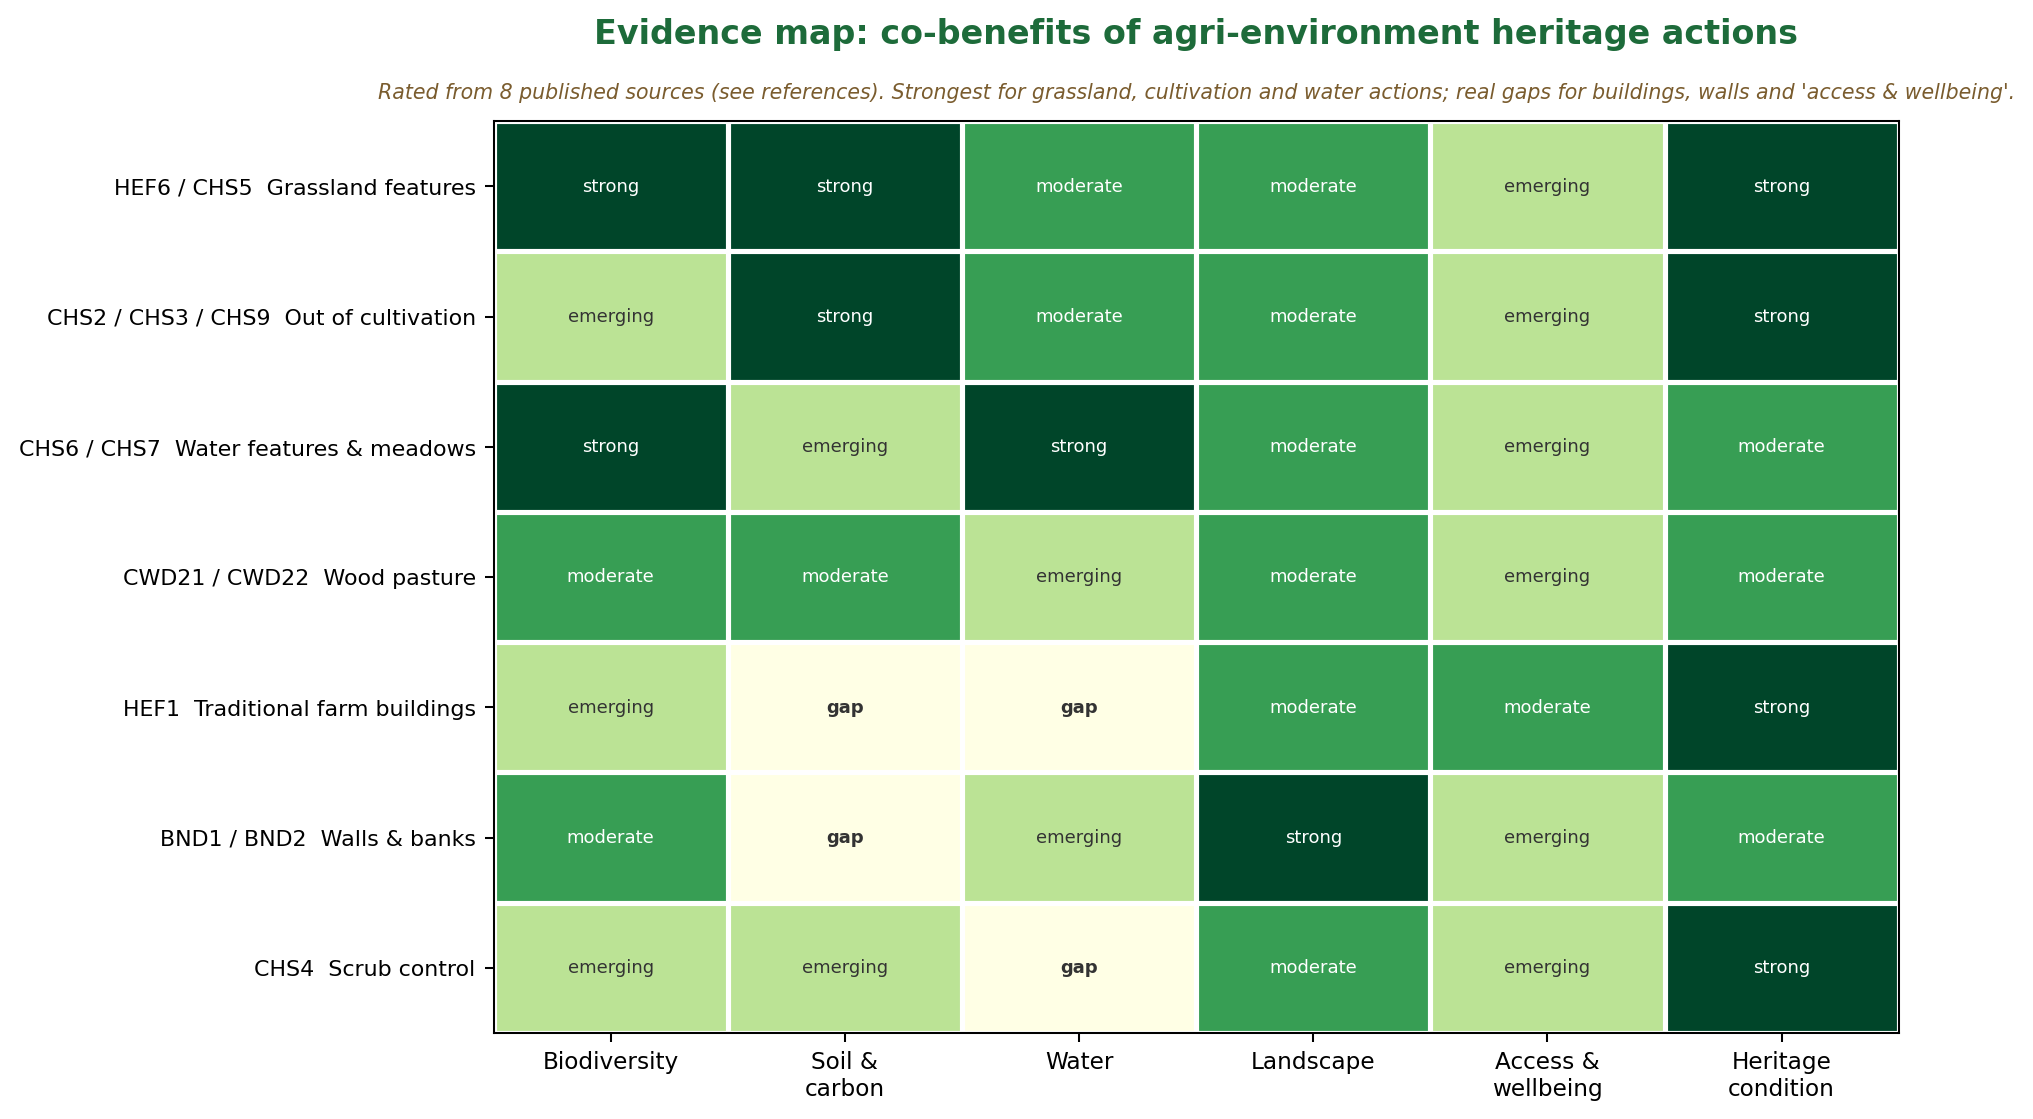
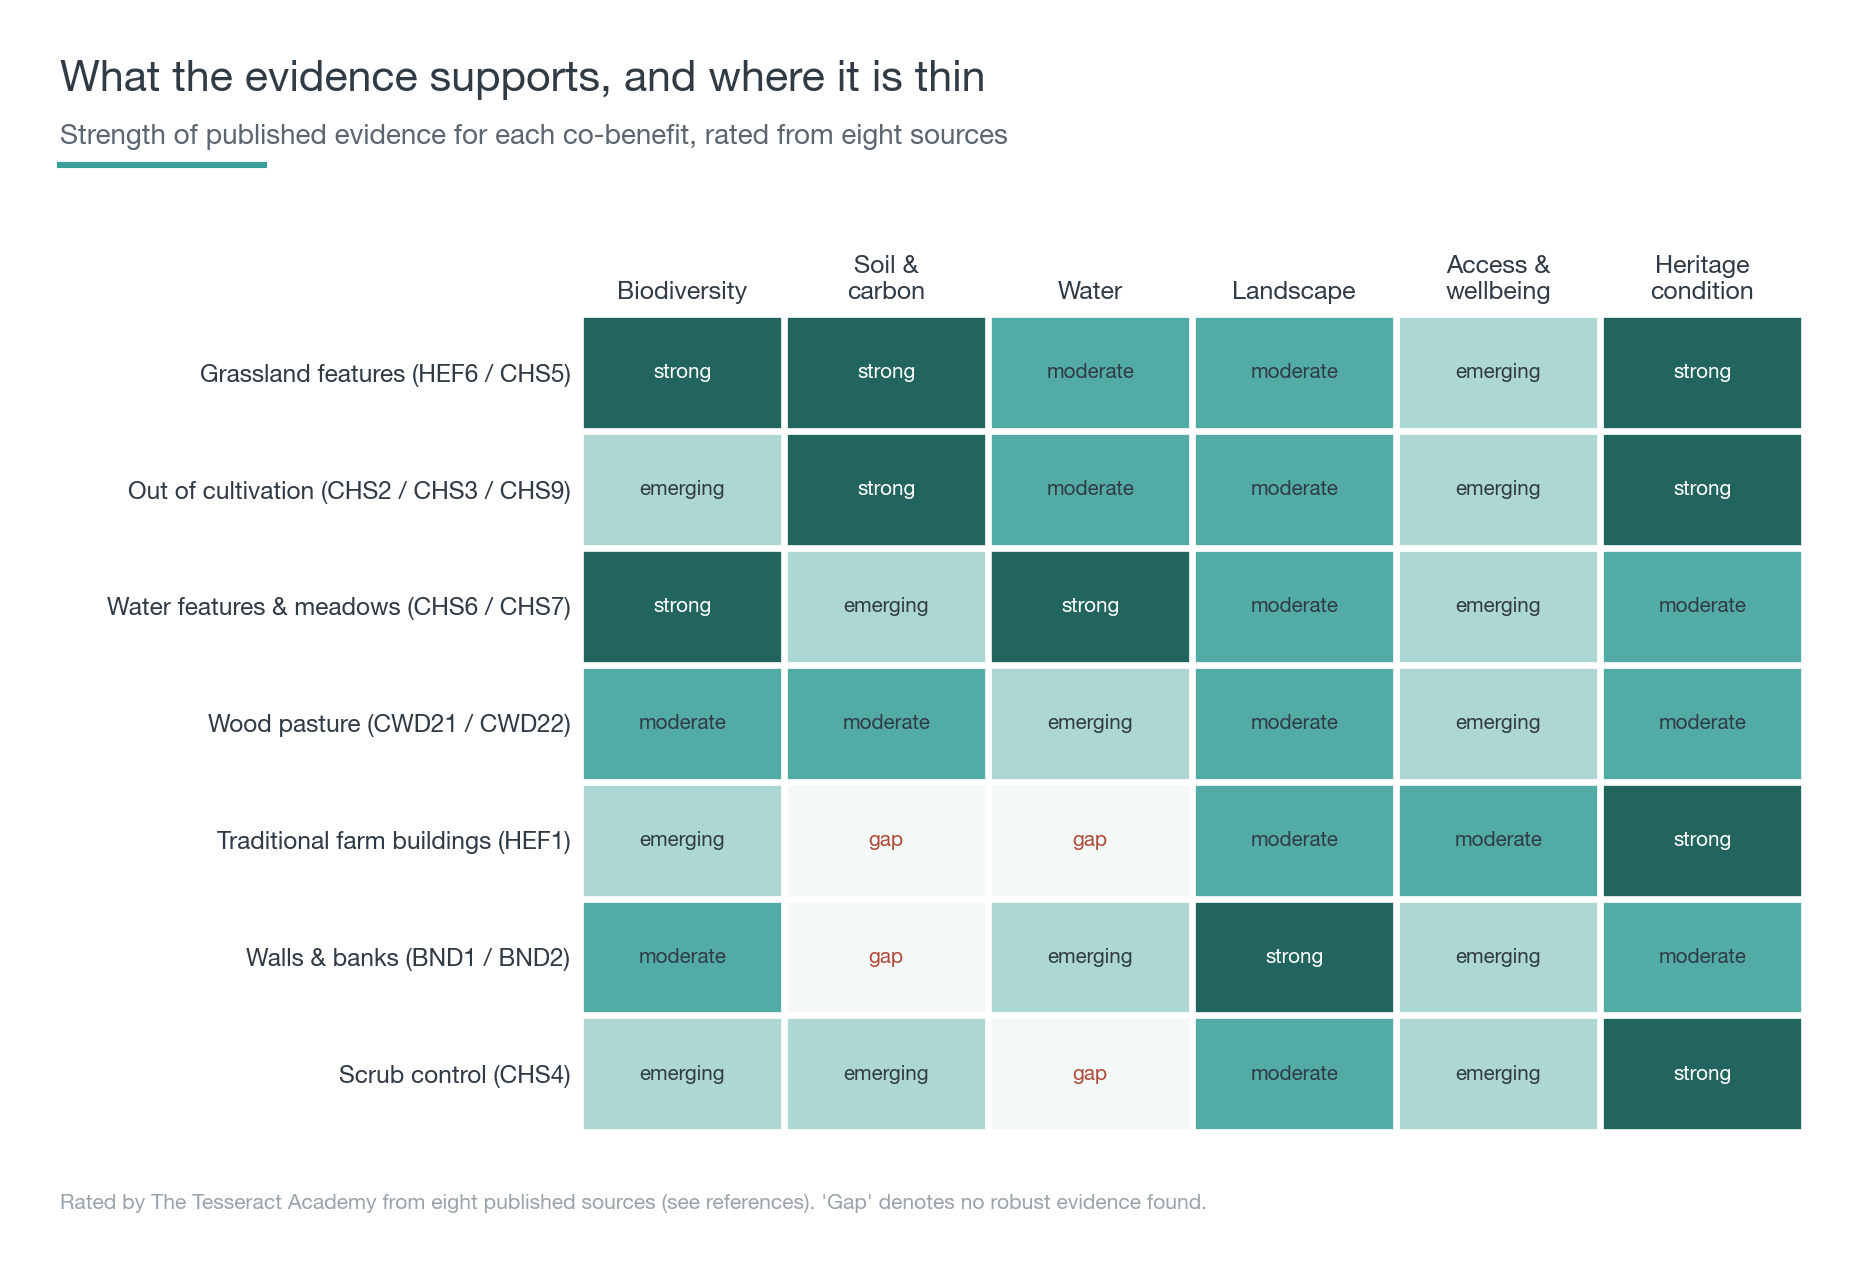
Top-firm visual upgrade: editorial exhibits + In brief synthesis
Rebuild all three case-study exhibits in the site teal/slate palette on Helvetica Neue,
FT/McKinsey-exhibit register (title + deck + accent rule, restrained palette, direct
labelling, no chartjunk). Add an 'In brief' synthesis box leading with the findings.

diff --git a/pages/case-studies/AesHeritage.tsx b/pages/case-studies/AesHeritage.tsx
@@ -68,6 +68,15 @@ export const AesHeritage: React.FC = () => {
         </div>
       </div>
 
+      <div className="bg-gov-bg border border-gov-border/60 rounded-xl p-7">
+        <p className="text-xs font-semibold uppercase tracking-wider text-gov-blue mb-4">In brief</p>
+        <ul className="space-y-3 text-gov-dark leading-relaxed">
+          <li className="flex gap-3"><span className="text-gov-blue font-bold">1.</span><span><strong>The risk is rural and buried.</strong> 85 per cent of Scheduled Monuments at risk are buried archaeology, and 84 per cent are on farmland, exactly what agri-environment actions manage.</span></li>
+          <li className="flex gap-3"><span className="text-gov-blue font-bold">2.</span><span><strong>The co-benefit evidence is real but uneven.</strong> It is strong for grassland, cultivation and water actions on carbon, biodiversity and water; it is genuinely thin for buildings and walls.</span></li>
+          <li className="flex gap-3"><span className="text-gov-blue font-bold">3.</span><span><strong>The value for people is the biggest gap.</strong> Across every action, evidence on access and wellbeing is the weakest, the single most important gap to close for a programme that is for nature <em>and</em> for people.</span></li>
+        </ul>
+      </div>
+
       <section className="space-y-4">
         <div className="border-l-2 border-l-gov-blue pl-6">
           <h2 className="text-2xl font-bold text-gov-dark font-serif mb-3">The Challenge</h2>
